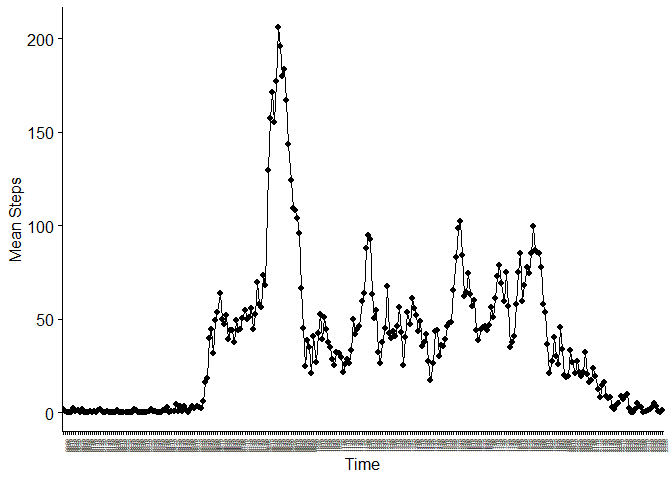
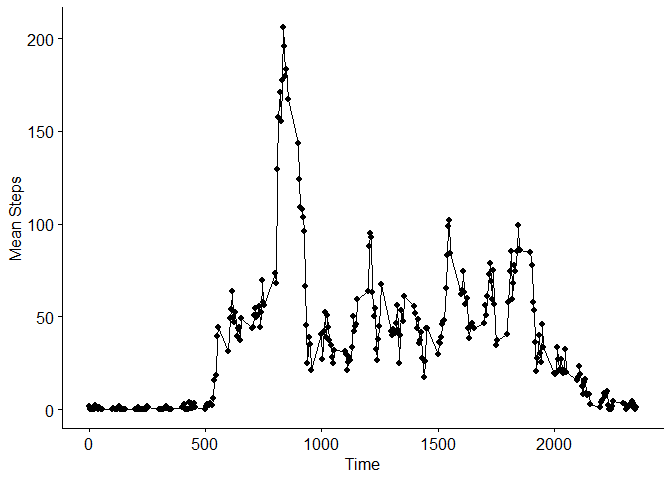
For Submission

diff --git a/PA1_submission.html b/PA1_submission.html
@@ -461,31 +461,96 @@ meanandmedian</code></pre>
 <pre class="r"><code>timeseries&lt;-data %&gt;%
   group_by(interval) %&gt;%
   summarise(`Mean Steps`=mean(steps, na.rm=TRUE)) %&gt;%
-  rename(Time=interval) %&gt;%
-  mutate(Time=format(strptime(sprintf(&quot;%04d&quot;, Time), format=&quot;%H%M&quot;), format=&quot;%H:%M&quot;))</code></pre>
+  rename(Time=interval)</code></pre>
 <pre><code>## `summarise()` ungrouping output (override with `.groups` argument)</code></pre>
 <pre class="r"><code>timeseries</code></pre>
 <pre><code>## # A tibble: 288 x 2
-##    Time  `Mean Steps`
-##    &lt;chr&gt;        &lt;dbl&gt;
-##  1 00:00       1.72  
-##  2 00:05       0.340 
-##  3 00:10       0.132 
-##  4 00:15       0.151 
-##  5 00:20       0.0755
-##  6 00:25       2.09  
-##  7 00:30       0.528 
-##  8 00:35       0.868 
-##  9 00:40       0     
-## 10 00:45       1.47  
+##     Time `Mean Steps`
+##    &lt;dbl&gt;        &lt;dbl&gt;
+##  1     0       1.72  
+##  2     5       0.340 
+##  3    10       0.132 
+##  4    15       0.151 
+##  5    20       0.0755
+##  6    25       2.09  
+##  7    30       0.528 
+##  8    35       0.868 
+##  9    40       0     
+## 10    45       1.47  
 ## # ... with 278 more rows</code></pre>
 <p>Now we make a time series plot of the 5-minute interval and average number of steps taken, averaged across all days.</p>
-<pre class="r"><code>ggline(timeseries, x=&quot;Time&quot;, y=&quot;Mean Steps&quot;) +
-  theme(axis.text.x = element_text(angle=90, size=4))</code></pre>
[1 lines of base64/hex data omitted]
+<pre class="r"><code>ggline(timeseries, x=&quot;Time&quot;, y=&quot;Mean Steps&quot;, numeric.x.axis=TRUE)</code></pre>
[1 lines of base64/hex data omitted]
+<p>The maximum number of steps seem to occur at approximately 0800. Lets check the exact interval.</p>
+<pre class="r"><code>timeseries[which.max(timeseries$`Mean Steps`),]</code></pre>
+<pre><code>## # A tibble: 1 x 2
+##    Time `Mean Steps`
+##   &lt;dbl&gt;        &lt;dbl&gt;
+## 1   835         206.</code></pre>
+</div>
+<div id="imputing-missing-values" class="section level2">
+<h2>Imputing missing values</h2>
+<p>Check the number of missing values in the dataset.</p>
+<pre class="r"><code>sum(is.na(data))</code></pre>
+<pre><code>## [1] 2304</code></pre>
+<p>Replace missing values with 0 for that 5-minute interval.</p>
+<pre class="r"><code>data_replacedNA&lt;-data %&gt;%
+  replace(is.na(.), 0)</code></pre>
+<p>Re-plot histogram to see any changes.</p>
+<pre class="r"><code>totalperday_replacedNA&lt;-data_replacedNA %&gt;%
+  group_by(date) %&gt;%
+  summarize(`Total Steps`=sum(steps)) %&gt;%
+  rename(Date=date)</code></pre>
+<pre><code>## `summarise()` ungrouping output (override with `.groups` argument)</code></pre>
+<pre class="r"><code>gghistogram(totalperday_replacedNA, x=&quot;Total Steps&quot;, bins=50)</code></pre>
[1 lines of base64/hex data omitted]
+<p>Calculate mean and median values.</p>
+<pre class="r"><code>meanandmedian_replacedNA&lt;-totalperday_replacedNA %&gt;%
+  summarize(Mean=mean(`Total Steps`, na.rm=TRUE), Median=median(`Total Steps`, na.rm=TRUE))
+meanandmedian_replacedNA</code></pre>
+<pre><code>## # A tibble: 1 x 2
+##    Mean Median
+##   &lt;dbl&gt;  &lt;dbl&gt;
+## 1 9354.  10395</code></pre>
+<p>Both the mean and median have decreased due to the replacement of NAs with 0s. Imputing missing data on the estimates may cause the estimates to shift, depending on what they were replaced by and thus we have to consider the values that we replace the NAs with.</p>
 </div>
 <div id="are-there-differences-in-activity-patterns-between-weekdays-and-weekends" class="section level2">
 <h2>Are there differences in activity patterns between weekdays and weekends?</h2>
+<p>Add a factor weekdays to the dataset.</p>
+<pre class="r"><code>library(lubridate)</code></pre>
+<pre><code>## 
+## Attaching package: &#39;lubridate&#39;</code></pre>
+<pre><code>## The following objects are masked from &#39;package:base&#39;:
+## 
+##     date, intersect, setdiff, union</code></pre>
+<pre class="r"><code>weekdays&lt;-data_replacedNA %&gt;%
+  mutate(Day=day(as.POSIXct(date))) %&gt;%
+  mutate(WeekDayEnd=as.factor(ifelse(Day==6|Day==7, &quot;Weekend&quot;, &quot;Weekday&quot;)))
+weekdays</code></pre>
+<pre><code>## # A tibble: 17,568 x 5
+##    steps date       interval   Day WeekDayEnd
+##    &lt;dbl&gt; &lt;date&gt;        &lt;dbl&gt; &lt;int&gt; &lt;fct&gt;     
+##  1     0 2012-10-01        0     1 Weekday   
+##  2     0 2012-10-01        5     1 Weekday   
+##  3     0 2012-10-01       10     1 Weekday   
+##  4     0 2012-10-01       15     1 Weekday   
+##  5     0 2012-10-01       20     1 Weekday   
+##  6     0 2012-10-01       25     1 Weekday   
+##  7     0 2012-10-01       30     1 Weekday   
+##  8     0 2012-10-01       35     1 Weekday   
+##  9     0 2012-10-01       40     1 Weekday   
+## 10     0 2012-10-01       45     1 Weekday   
+## # ... with 17,558 more rows</code></pre>
+<p>Get the total number of steps for Weekdays and Weekends and create a line plot to visualise the difference.</p>
+<pre class="r"><code>weekdays_total&lt;-weekdays %&gt;%
+  select(!Day) %&gt;%
+  group_by(WeekDayEnd, interval) %&gt;%
+  summarise(mean(steps)) %&gt;%
+  rename(Interval=interval, `Mean Steps`=`mean(steps)`)</code></pre>
+<pre><code>## `summarise()` regrouping output by &#39;WeekDayEnd&#39; (override with `.groups` argument)</code></pre>
+<pre class="r"><code>ggline(weekdays_total, x=&quot;Interval&quot;, y=&quot;Mean Steps&quot;, facet.by=&quot;WeekDayEnd&quot;, numeric.x.axis=TRUE)</code></pre>
[1 lines of base64/hex data omitted]
+<p>Here we observe that on weekdays, there’s a clear peak in the morning hours. For weekends, the distribution is rather uniform.</p>
 </div>
 
 

diff --git a/PA1_submission.md b/PA1_submission.md
@@ -138,8 +138,7 @@ We first compute the average number of steps taken across all days for each 5-mi
 timeseries<-data %>%
   group_by(interval) %>%
   summarise(`Mean Steps`=mean(steps, na.rm=TRUE)) %>%
-  rename(Time=interval) %>%
-  mutate(Time=format(strptime(sprintf("%04d", Time), format="%H%M"), format="%H:%M"))
+  rename(Time=interval)
 ```
 
 ```
@@ -152,31 +151,154 @@ timeseries
 
 ```
 ## # A tibble: 288 x 2
-##    Time  `Mean Steps`
-##    <chr>        <dbl>
-##  1 00:00       1.72  
-##  2 00:05       0.340 
-##  3 00:10       0.132 
-##  4 00:15       0.151 
-##  5 00:20       0.0755
-##  6 00:25       2.09  
-##  7 00:30       0.528 
-##  8 00:35       0.868 
-##  9 00:40       0     
-## 10 00:45       1.47  
+##     Time `Mean Steps`
+##    <dbl>        <dbl>
+##  1     0       1.72  
+##  2     5       0.340 
+##  3    10       0.132 
+##  4    15       0.151 
+##  5    20       0.0755
+##  6    25       2.09  
+##  7    30       0.528 
+##  8    35       0.868 
+##  9    40       0     
+## 10    45       1.47  
 ## # ... with 278 more rows
 ```
 Now we make a time series plot of the 5-minute interval and average number of steps taken, averaged across all days.
 
 ```r
-ggline(timeseries, x="Time", y="Mean Steps") +
-  theme(axis.text.x = element_text(angle=90, size=4))
+ggline(timeseries, x="Time", y="Mean Steps", numeric.x.axis=TRUE)
 ```
 
 ![](PA1_submission_files/figure-html/unnamed-chunk-7-1.png)<!-- -->
-The maximum number of steps seem to occur at approximately 8am. 
+
+The maximum number of steps seem to occur at approximately 0800. 
+Lets check the exact interval.
+
+
+```r
+timeseries[which.max(timeseries$`Mean Steps`),]
+```
+
+```
+## # A tibble: 1 x 2
+##    Time `Mean Steps`
+##   <dbl>        <dbl>
+## 1   835         206.
+```
 ## Imputing missing values
+Check the number of missing values in the dataset.
 
+```r
+sum(is.na(data))
+```
 
+```
+## [1] 2304
+```
+Replace missing values with 0 for that 5-minute interval. 
+
+```r
+data_replacedNA<-data %>%
+  replace(is.na(.), 0)
+```
+
+Re-plot histogram to see any changes.
+
+```r
+totalperday_replacedNA<-data_replacedNA %>%
+  group_by(date) %>%
+  summarize(`Total Steps`=sum(steps)) %>%
+  rename(Date=date)
+```
+
+```
+## `summarise()` ungrouping output (override with `.groups` argument)
+```
+
+```r
+gghistogram(totalperday_replacedNA, x="Total Steps", bins=50)
+```
+
+![](PA1_submission_files/figure-html/unnamed-chunk-11-1.png)<!-- -->
+
+Calculate mean and median values. 
+
+```r
+meanandmedian_replacedNA<-totalperday_replacedNA %>%
+  summarize(Mean=mean(`Total Steps`, na.rm=TRUE), Median=median(`Total Steps`, na.rm=TRUE))
+meanandmedian_replacedNA
+```
+
+```
+## # A tibble: 1 x 2
+##    Mean Median
+##   <dbl>  <dbl>
+## 1 9354.  10395
+```
+Both the mean and median have decreased due to the replacement of NAs with 0s. 
+Imputing missing data on the estimates may cause the estimates to shift, depending on what they were replaced by and thus we have to consider the values that we replace the NAs with. 
 
 ## Are there differences in activity patterns between weekdays and weekends?
+Add a factor weekdays to the dataset.
+
+```r
+library(lubridate)
+```
+
+```
+## 
+## Attaching package: 'lubridate'
+```
+
+```
+## The following objects are masked from 'package:base':
+## 
+##     date, intersect, setdiff, union
+```
+
+```r
+weekdays<-data_replacedNA %>%
+  mutate(Day=day(as.POSIXct(date))) %>%
+  mutate(WeekDayEnd=as.factor(ifelse(Day==6|Day==7, "Weekend", "Weekday")))
+weekdays
+```
+
+```
+## # A tibble: 17,568 x 5
+##    steps date       interval   Day WeekDayEnd
+##    <dbl> <date>        <dbl> <int> <fct>     
+##  1     0 2012-10-01        0     1 Weekday   
+##  2     0 2012-10-01        5     1 Weekday   
+##  3     0 2012-10-01       10     1 Weekday   
+##  4     0 2012-10-01       15     1 Weekday   
+##  5     0 2012-10-01       20     1 Weekday   
+##  6     0 2012-10-01       25     1 Weekday   
+##  7     0 2012-10-01       30     1 Weekday   
+##  8     0 2012-10-01       35     1 Weekday   
+##  9     0 2012-10-01       40     1 Weekday   
+## 10     0 2012-10-01       45     1 Weekday   
+## # ... with 17,558 more rows
+```
+Get the total number of steps for Weekdays and Weekends and create a line plot to visualise the difference.
+
+```r
+weekdays_total<-weekdays %>%
+  select(!Day) %>%
+  group_by(WeekDayEnd, interval) %>%
+  summarise(mean(steps)) %>%
+  rename(Interval=interval, `Mean Steps`=`mean(steps)`)
+```
+
+```
+## `summarise()` regrouping output by 'WeekDayEnd' (override with `.groups` argument)
+```
+
+```r
+ggline(weekdays_total, x="Interval", y="Mean Steps", facet.by="WeekDayEnd", numeric.x.axis=TRUE)
+```
+
+![](PA1_submission_files/figure-html/unnamed-chunk-14-1.png)<!-- -->
+
+Here we observe that on weekdays, there's a clear peak in the morning hours. For weekends, the distribution is rather uniform. 
